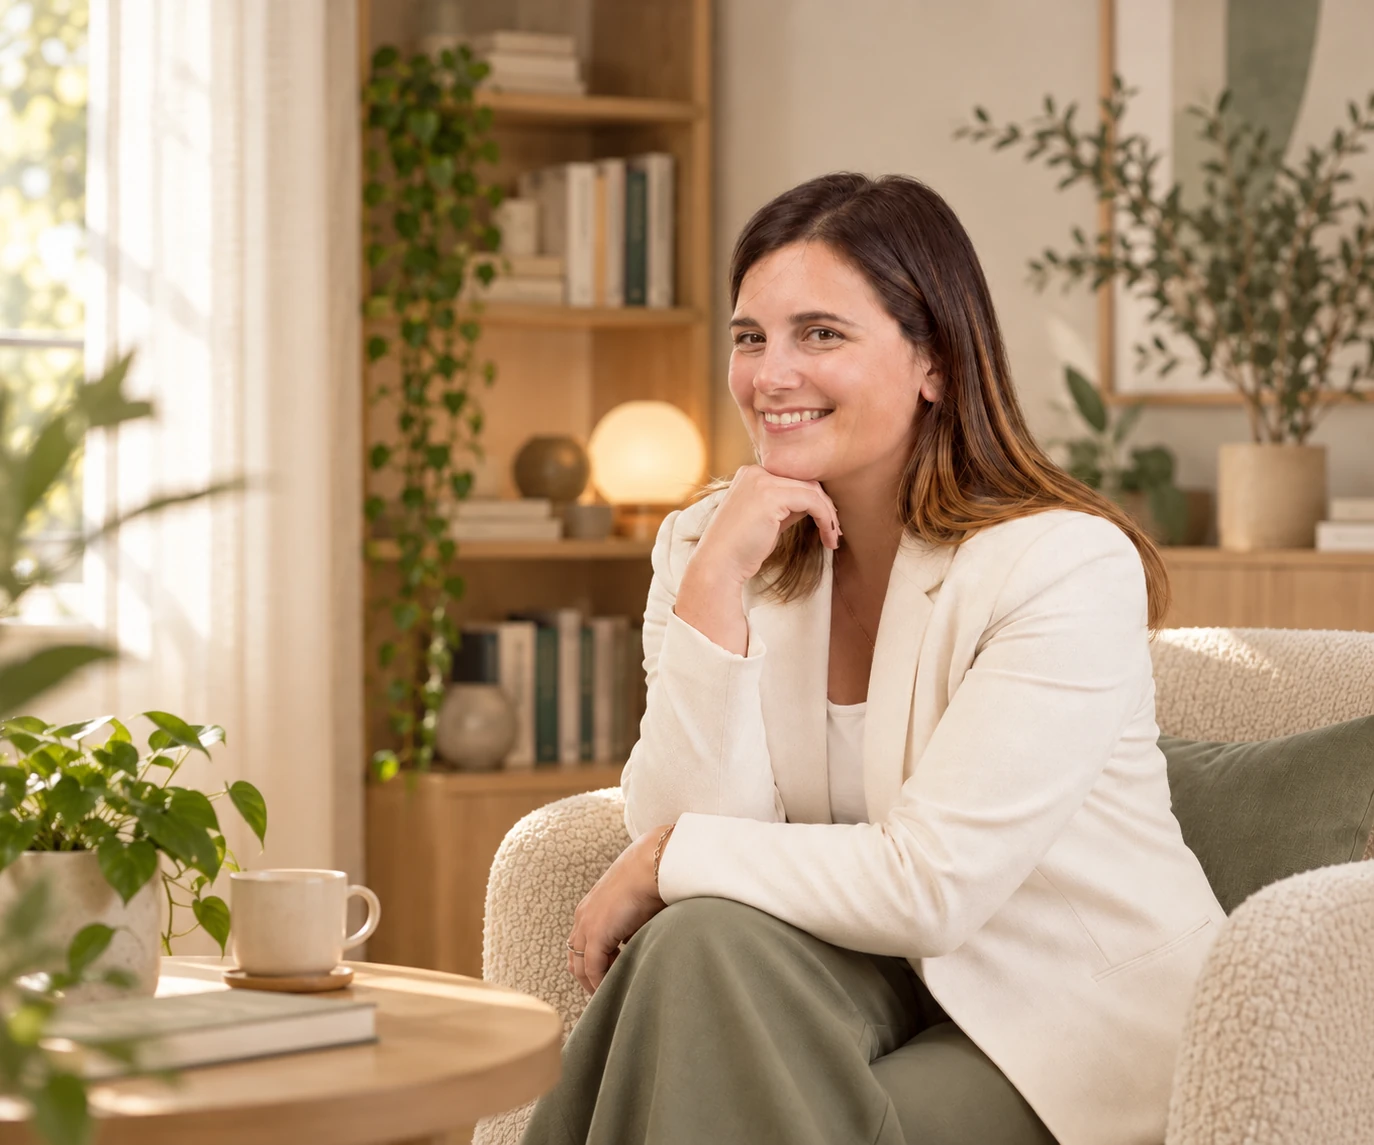
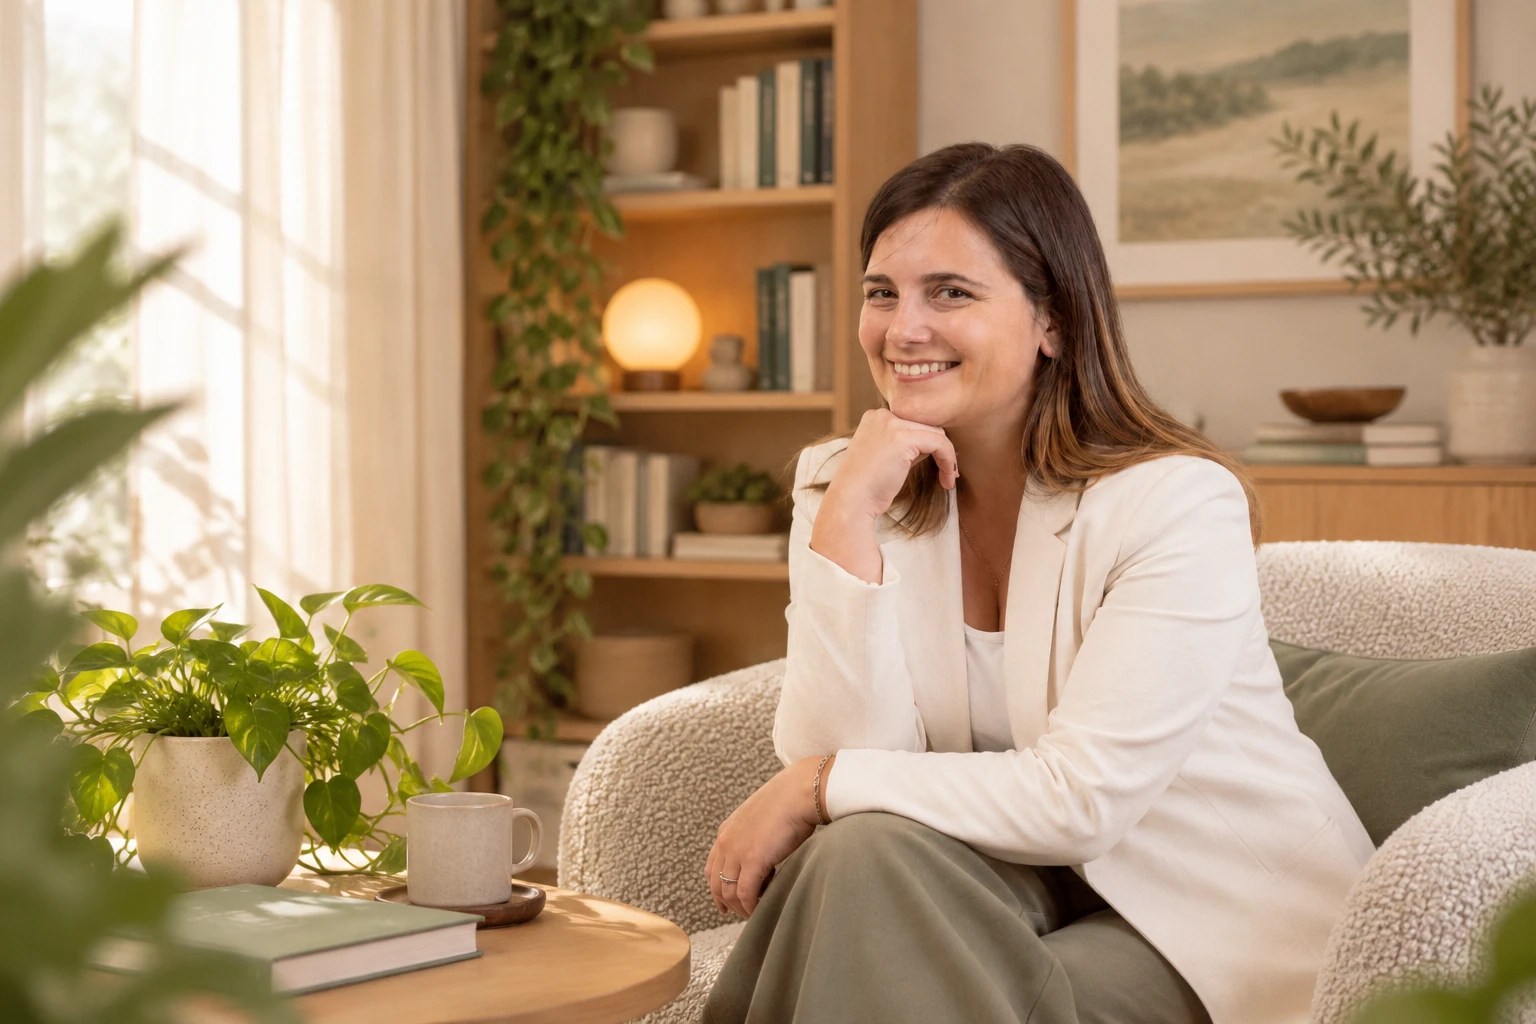
Aggiornamento homepage, menu mobile e responsive

diff --git a/app/page.tsx b/app/page.tsx
@@ -51,16 +51,16 @@ export default function Home() {
   }, { scope });
   return <main ref={scope} id="main">
       <section id="home" className="hero section-shell">
-        <div className="hero-main"><Reveal className="hero-copy"><p className="eyebrow"><span /> PSICOLOGIA E ASCOLTO</p><h1>Uno spazio per<br />ritrovare il tuo<br /><em>equilibrio.</em></h1><p className="hero-description">Psicoterapia a Crema e online, con ascolto e percorsi personalizzati per il benessere psicologico.</p><div className="hero-actions"><a className="button primary" href="#come-funziona">Come funziona il percorso <ArrowUpRight size={17} /></a><a className="text-link" href="#approccio">Scopri il mio approccio <ArrowRight size={17} /></a></div><div className="hero-location"><span className="status-dot" /> In studio a Crema e online <span className="small-divider" /> Uno spazio, anche a distanza</div></Reveal>
+        <div className="hero-main"><Reveal className="hero-copy"><p className="eyebrow"><span /> PSICOLOGA E PSICOTERAPEUTA · CREMA</p><h1>Uno spazio per<br />ritrovare il tuo<br /><em>equilibrio.</em></h1><p className="hero-description">Psicoterapia a Crema e online, con ascolto e percorsi personalizzati per il benessere psicologico.</p><div className="hero-actions"><a className="button primary" href="#come-funziona">Come funziona il percorso <ArrowUpRight size={17} /></a><a className="text-link" href="#approccio">Scopri il mio approccio <ArrowRight size={17} /></a></div><div className="hero-location"><span className="status-dot" /> In studio a Crema e online <span className="small-divider" /> Uno spazio, anche a distanza</div></Reveal>
         <Reveal className="hero-visual"><div className="image-frame"><Image src="/images/giulia-ritratto-home-nuovo.webp" alt="Giulia Calzone seduta in poltrona in un salotto luminoso, tra piante e una libreria" fill priority sizes="(max-width: 760px) 100vw, 48vw" className="hero-image" /><div className="image-grain" /></div><div className="hero-note"><span className="note-icon"><Leaf size={22} strokeWidth={1.3} /></span><div><span>Ogni percorso inizia</span><em>dal sentirsi accolti.</em></div><span className="note-line" /></div><div className="vertical-caption">ASCOLTO. CURA. POSSIBILITÀ.</div></Reveal></div>
         <div className="hero-bottom"><div className="highlight"><LockKeyhole size={22} strokeWidth={1.2} /><div><h3>Uno spazio riservato</h3><p>Un ambiente accogliente e senza giudizio,<br className="desktop-break" /> dove sentirti libero di raccontarti.</p></div></div><div className="highlight"><Leaf size={24} strokeWidth={1.2} /><div><h3>Un percorso personale</h3><p>Un percorso costruito insieme, nel rispetto<br className="desktop-break" /> dei tuoi bisogni e dei tuoi tempi.</p></div></div><div className="highlight"><MessageCircle size={24} strokeWidth={1.2} /><div><h3>Un primo incontro</h3><p>Un momento per conoscerci e dare spazio a ciò che stai vivendo.</p></div></div></div>
       </section>
 
-      <section id="chi-sono" className="about section-shell"><Reveal className="about-image"><Image src="/images/ambiente-consulenza.webp" alt="Studio accogliente con due poltrone, una libreria e luce naturale" fill sizes="(max-width: 760px) 100vw, 42vw" /><span className="photo-caption">Uno spazio per fermarsi. E ripartire.</span></Reveal><Reveal className="about-copy"><p className="eyebrow">CHI SONO</p><h2>La persona,<br /><em>prima di tutto.</em></h2><p>Sono Giulia Calzone, psicologa e psicoterapeuta a orientamento cognitivo-comportamentale.</p><p>Credo in uno spazio di ascolto senza giudizio, dove ogni percorso nasce dall’incontro e si costruisce insieme, nel rispetto dei bisogni e dei tempi di ciascuno.</p><Link className="text-link underlined" href="/chi-sono/">Conosci Giulia <ArrowUpRight size={18} /></Link><div id="approccio" className="approach"><span>IL MIO APPROCCIO</span><p>Un lavoro condiviso per esplorare il legame tra pensieri, emozioni e comportamenti, a partire dalle tue esperienze e dagli obiettivi che definiamo insieme.</p></div></Reveal></section>
+      <section id="chi-sono" className="about section-shell"><Reveal className="about-image"><Image src="/images/ambiente-consulenza.webp" alt="Studio accogliente con due poltrone, una libreria e luce naturale" fill sizes="(max-width: 760px) 100vw, 42vw" /><span className="photo-caption">Uno spazio per fermarsi. E ripartire.</span></Reveal><Reveal className="about-copy"><p className="eyebrow">CHI SONO</p><h2>La persona,<br /><em>prima di tutto.</em></h2><p>Sono Giulia Calzone, psicologa e psicoterapeuta a orientamento cognitivo-comportamentale a Crema.</p><p>Credo in una relazione terapeutica fondata sulla fiducia e sull'ascolto. Ogni percorso nasce dalla storia personale, dalle difficoltà e dalle risorse di ciascuno.</p><Link className="text-link underlined" href="/chi-sono/">Conosci Giulia <ArrowUpRight size={18} /></Link><div id="approccio" className="approach"><span>IL MIO APPROCCIO</span><p>Integro strumenti cognitivo-comportamentali e attenzione alla relazione terapeutica, per comprendere pensieri, emozioni e comportamenti e costruire insieme nuove possibilità.</p></div></Reveal></section>
 
-      <section id="percorsi" className="services"><div className="section-shell"><Reveal className="section-heading"><div><p className="eyebrow">COME POSSO AIUTARTI</p><h2>Percorsi pensati <em>per te.</em></h2></div><p>Tre percorsi di ascolto e cura, da costruire insieme a partire dalla tua storia e dalle tue esigenze.</p></Reveal><div className="services-grid">{services.map(service => <Reveal className="service" key={service.number}><div className="service-image"><Image src={service.image} alt={service.alt} fill sizes="(max-width: 760px) 100vw, 33vw" /></div><p className="eyebrow service-tag">{service.number} / {service.tag}</p><h3>{service.title}</h3><p>{service.text}</p><Link className="service-link" href={`/percorsi/#${service.id}`} aria-label={`Scopri il percorso: ${service.title}`}>Scopri il percorso <ArrowUpRight size={18} /></Link></Reveal>)}</div></div></section>
+      <section id="percorsi" className="services"><div className="section-shell"><Reveal className="section-heading"><div><p className="eyebrow">COME POSSO AIUTARTI</p><h2>Percorsi pensati <em>per te.</em></h2></div><p>Psicoterapia individuale, terapia di coppia e sostegno alla genitorialità: percorsi su misura.</p></Reveal><div className="services-grid">{services.map(service => <Reveal className="service" key={service.number}><div className="service-image"><Image src={service.image} alt={service.alt} fill sizes="(max-width: 760px) 100vw, 33vw" /></div><p className="eyebrow service-tag">{service.number} / {service.tag}</p><h3>{service.title}</h3><p>{service.text}</p><Link className="service-link" href={`/percorsi/#${service.id}`} aria-label={`Scopri il percorso: ${service.title}`}>Scopri il percorso <ArrowUpRight size={18} /></Link></Reveal>)}</div></div></section>
 
-      <section id="come-funziona" className="process section-shell"><Reveal className="process-heading"><p className="eyebrow">COME FUNZIONA</p><h2>Un percorso,<br /><em>passo dopo passo.</em></h2><p>Dal primo messaggio agli incontri successivi, il percorso si costruisce passo dopo passo. Ogni fase viene condivisa e definita insieme, con chiarezza e attenzione alla tua storia, alle tue esigenze e ai tuoi tempi.</p><Link className="text-link underlined" href="/contatti/#modulo">Facciamo il primo passo <ArrowUpRight size={18} /></Link></Reveal><ProcessTimeline steps={steps} /></section>
+      <section id="come-funziona" className="process section-shell"><Reveal className="process-heading"><p className="eyebrow">COME FUNZIONA</p><h2>Un percorso,<br /><em>passo dopo passo.</em></h2><p>Dalla prima consultazione agli incontri successivi, il percorso di psicoterapia si costruisce insieme, attraverso l’ascolto, la definizione di obiettivi condivisi e il rispetto dei tempi di ciascuno.</p><Link className="text-link underlined" href="/contatti/#modulo">Facciamo il primo passo <ArrowUpRight size={18} /></Link></Reveal><ProcessTimeline steps={steps} /></section>
 
       <FirstStepCta id="primo-passo" />
     </main>;

diff --git a/app/globals.css b/app/globals.css
@@ -28,8 +28,10 @@ footer{background:var(--footer);padding:53px 0 22px}.footer-top{display:grid;gri
 .hero-description{max-width:460px}
 .hero-location{line-height:1.7;flex-wrap:wrap}
 
-.hero-note{width:310px;min-height:106px}
-.hero-note em{font-size:20px}
+.hero-note{width:280px;min-height:96px;padding:15px 16px;gap:12px;border-radius:16px}
+.hero-note .note-icon{width:38px;height:38px}
+.hero-note div span{font-size:12px}
+.hero-note em{font-size:21px;line-height:1.35}
 .service>p:not(.eyebrow){min-height:55px}
 .service summary{padding-block:17px}
 .service-detail p{line-height:1.85}
@@ -41,18 +43,21 @@ footer{background:var(--footer);padding:53px 0 22px}.footer-top{display:grid;gri
 @media(max-width:1100px){
   .desktop-nav,.nav-cta{display:none}
   .menu-toggle{display:grid;place-items:center;border:1px solid var(--line);background:transparent;color:var(--sage);width:44px;height:44px}
-  .mobile-nav{display:grid;position:absolute;top:83px;left:0;right:0;padding:0 32px 17px;background:var(--paper);border-bottom:1px solid var(--line);overflow:hidden}
+  .mobile-nav{display:grid;position:absolute;top:83px;left:0;right:0;max-height:calc(100dvh - 84px);padding:0 32px 17px;background:var(--paper);border-bottom:1px solid var(--line);overflow-y:auto;overscroll-behavior:contain}
   .mobile-nav a{padding:13px 1px;display:flex;justify-content:space-between;align-items:center;border-bottom:1px solid var(--line);font-size:16px}
   .mobile-nav a:first-child{border-top:1px solid var(--line)}
   .mobile-nav a:last-child{border-bottom:0}
+  .mobile-nav .mobile-nav-cta{display:flex;width:100%;min-height:50px;margin-top:24px;padding:0 16px;border-bottom:0;justify-content:center}
+  .mobile-nav .mobile-nav-cta:hover{background:var(--sage-dark);color:var(--white);transform:none}
 }
 @media(max-width:760px){
-  .mobile-nav{top:71px;padding-inline:22px}
+  .mobile-nav{top:71px;max-height:calc(100dvh - 72px);padding-inline:22px}
   
   .hero-actions .button,.hero-actions .text-link{font-size:15px}
   .contact-copy>p:not(.eyebrow){font-size:17px}
-  .hero-note{width:285px;min-height:94px}
-  .hero-note em{font-size:18px}
+  .hero-note{width:256px;min-height:85px;padding:11px;gap:11px;border-radius:15px}
+  .hero-note .note-icon{width:34px;height:34px}
+  .hero-note em{font-size:19px}
   .hero-bottom{grid-template-columns:1fr;gap:22px}
   .intro-link{grid-column:auto}
   .highlight h3{font-size:16px}
@@ -92,7 +97,7 @@ footer{background:var(--footer);padding:53px 0 22px}.footer-top{display:grid;gri
 .contact-form .consent{align-items:start}
 @media(max-width:1000px){.hero-bottom{gap:22px}.about{gap:48px}.about-image{min-height:580px}}
 @media(max-width:760px){.hero-bottom{grid-template-columns:1fr}.about{gap:30px;padding-block:52px 60px}.about-image{height:clamp(360px,100vw,480px);min-height:0}.field-label .optional{font-size:12px}}
-@media(max-width:760px){.pause{padding:0;min-height:0;display:flex;flex-direction:column;align-items:stretch}.cta-photo{position:relative;inset:auto;z-index:auto;order:2;height:230px}.cta-photo img{object-position:right center}.pause::after{display:none}.cta-copy{padding:32px 26px;max-width:none}.cta-copy h2{font-size:clamp(36px,9vw,48px)}.cta-copy p{margin:18px 0 24px;font-size:16px}.cta-button{font-size:15px}}
+@media(max-width:760px){.pause{padding:0;min-height:0;display:flex;flex-direction:column;align-items:stretch}.cta-photo{display:none}.pause::after{display:none}.cta-copy{padding:32px 26px;max-width:none}.cta-copy h2{font-size:clamp(36px,9vw,48px)}.cta-copy p{margin:18px 0 24px;font-size:16px}.cta-button{font-size:15px}}
 @media(prefers-reduced-motion:reduce){:root{scroll-behavior:auto}*,*::before,*::after{animation-duration:.01ms!important;animation-iteration-count:1!important;scroll-behavior:auto!important;transition-duration:.01ms!important}}
 .contact-form input:not([type=checkbox]):hover,.contact-form textarea:hover,.contact-form select:hover{border-color:var(--line-strong)}
 .contact-form input:not([type=checkbox]):focus-visible,.contact-form textarea:focus-visible,.contact-form select:focus-visible{outline:2px solid var(--sage);outline-offset:-3px}
@@ -127,15 +132,10 @@ footer{background:var(--footer);padding:53px 0 22px}.footer-top{display:grid;gri
 #primo-passo .cta-photo img{object-position:right center}
 #primo-passo::after{background:linear-gradient(90deg,rgba(var(--cta-wash),.9) 0%,rgba(var(--cta-wash),.86) 32%,rgba(var(--cta-wash),.42) 58%,rgba(var(--cta-wash),.08) 82%,rgba(var(--cta-wash),0) 100%)}
 #primo-passo .cta-button:focus-visible{outline-color:var(--white)}
-@media(max-width:760px){
-  #primo-passo{min-height:clamp(520px,154vw,650px);padding:32px 26px;align-items:flex-start}
-  #primo-passo .cta-photo{position:absolute;inset:0;height:auto;order:initial;z-index:-2}
-  #primo-passo .cta-photo img{object-position:85% center}
-  #primo-passo::after{display:block;background:linear-gradient(180deg,rgba(var(--cta-wash-mobile),.97) 0%,rgba(var(--cta-wash-mobile),.96) 36%,rgba(var(--cta-wash-mobile),.96) 60%,rgba(var(--cta-wash-mobile),.58) 70%,rgba(var(--cta-wash-mobile),.12) 90%,rgba(var(--cta-wash-mobile),0) 100%)}
-  #primo-passo .cta-copy{padding:0;width:100%;max-width:510px}
-}
-@media(max-width:380px){#primo-passo .cta-copy h2{font-size:32px}#primo-passo::after{background:linear-gradient(180deg,rgba(var(--cta-wash-mobile),.97) 0%,rgba(var(--cta-wash-mobile),.96) 36%,rgba(var(--cta-wash-mobile),.96) 60%,rgba(var(--cta-wash-mobile),.94) 76%,rgba(var(--cta-wash-mobile),0) 100%)}}
+@media(max-width:380px){#primo-passo .cta-copy h2{font-size:32px}}
 
 /* Muted leaf tones are reserved for large serif accents and outline icons. */
 h1 em,h2 em{color:var(--sage-soft)}
 .highlight>svg,.path-area-icon,.note-icon{color:var(--sage-soft)}
+
+@media (min-width: 761px) { .hero-copy { padding-left: 0; } }

diff --git a/app/components/site-header.tsx b/app/components/site-header.tsx
@@ -11,6 +11,7 @@ import { ArrowUpRight, Menu, X } from "lucide-react";
 import { navigation } from "./navigation";
 
 const headerNavigation = navigation.filter(item => item.id !== "come-funziona");
+const contactHref = "/contatti/#modulo";
 
 export function Brand({ home = false, emblem = false }: { home?: boolean; emblem?: boolean }) {
   return <Link className={emblem ? "brand brand-with-emblem" : "brand"} href={home ? "#home" : "/#home"} aria-label="Giulia Calzone, home">{emblem && <Image className="brand-emblem" src="/images/emblema-giulia-calzone-header.webp" alt="" width={192} height={141} priority />}<span>Giulia Calzone<span className="brand-dot">.</span></span><small>PSICOLOGA PSICOTERAPEUTA</small></Link>;
@@ -26,7 +27,7 @@ export function SiteHeader({ home = false, activePage = "chi-sono" }: { home?: b
   return <header className="header" onKeyDown={event => { if (event.key === "Escape" && menu) { setMenu(false); toggle.current?.focus(); } }}><div className="nav-shell">
     <Brand home={home} emblem />
     <nav className="desktop-nav" aria-label="Navigazione principale">{headerNavigation.map(item => <Link key={item.id} href={href(item)} aria-current={item.id === (home ? "home" : activePage) ? "page" : undefined}>{item.label}</Link>)}</nav>
-    <Link className="button nav-cta" href="/contatti/#modulo">Richiedi un colloquio <ArrowUpRight size={15} /></Link>
+    <Link className="button nav-cta" href={contactHref}>Richiedi un colloquio <ArrowUpRight size={15} /></Link>
     <button ref={toggle} className="menu-toggle" aria-expanded={menu} aria-controls="mobile-menu" aria-label={menu ? "Chiudi il menu" : "Apri il menu"} onClick={() => setMenu(!menu)}>{menu ? <X /> : <Menu />}</button>
-  </div><AnimatePresence>{menu && <motion.nav id="mobile-menu" className="mobile-nav" aria-label="Navigazione mobile" initial={{ opacity: 0, height: 0 }} animate={{ opacity: 1, height: "auto" }} exit={{ opacity: 0, height: 0 }} transition={{ duration: reduced ? 0 : .2 }} onKeyDown={event => { if (event.key === "Escape") { setMenu(false); toggle.current?.focus(); } }}>{headerNavigation.map(item => <Link href={href(item)} key={item.id} aria-current={item.id === (home ? "home" : activePage) ? "page" : undefined} onClick={() => setMenu(false)}>{item.label}<ArrowUpRight size={16} /></Link>)}</motion.nav>}</AnimatePresence></header>;
+  </div><AnimatePresence>{menu && <motion.nav id="mobile-menu" className="mobile-nav" aria-label="Navigazione mobile" initial={{ opacity: 0, height: 0 }} animate={{ opacity: 1, height: "auto" }} exit={{ opacity: 0, height: 0 }} transition={{ duration: reduced ? 0 : .2 }} onKeyDown={event => { if (event.key === "Escape") { setMenu(false); toggle.current?.focus(); } }}>{headerNavigation.map(item => <Link href={href(item)} key={item.id} aria-current={item.id === (home ? "home" : activePage) ? "page" : undefined} onClick={() => setMenu(false)}>{item.label}<ArrowUpRight size={16} /></Link>)}<Link className="button nav-cta mobile-nav-cta" href={contactHref} onClick={() => setMenu(false)}>Richiedi un colloquio <ArrowUpRight size={15} /></Link></motion.nav>}</AnimatePresence></header>;
 }
